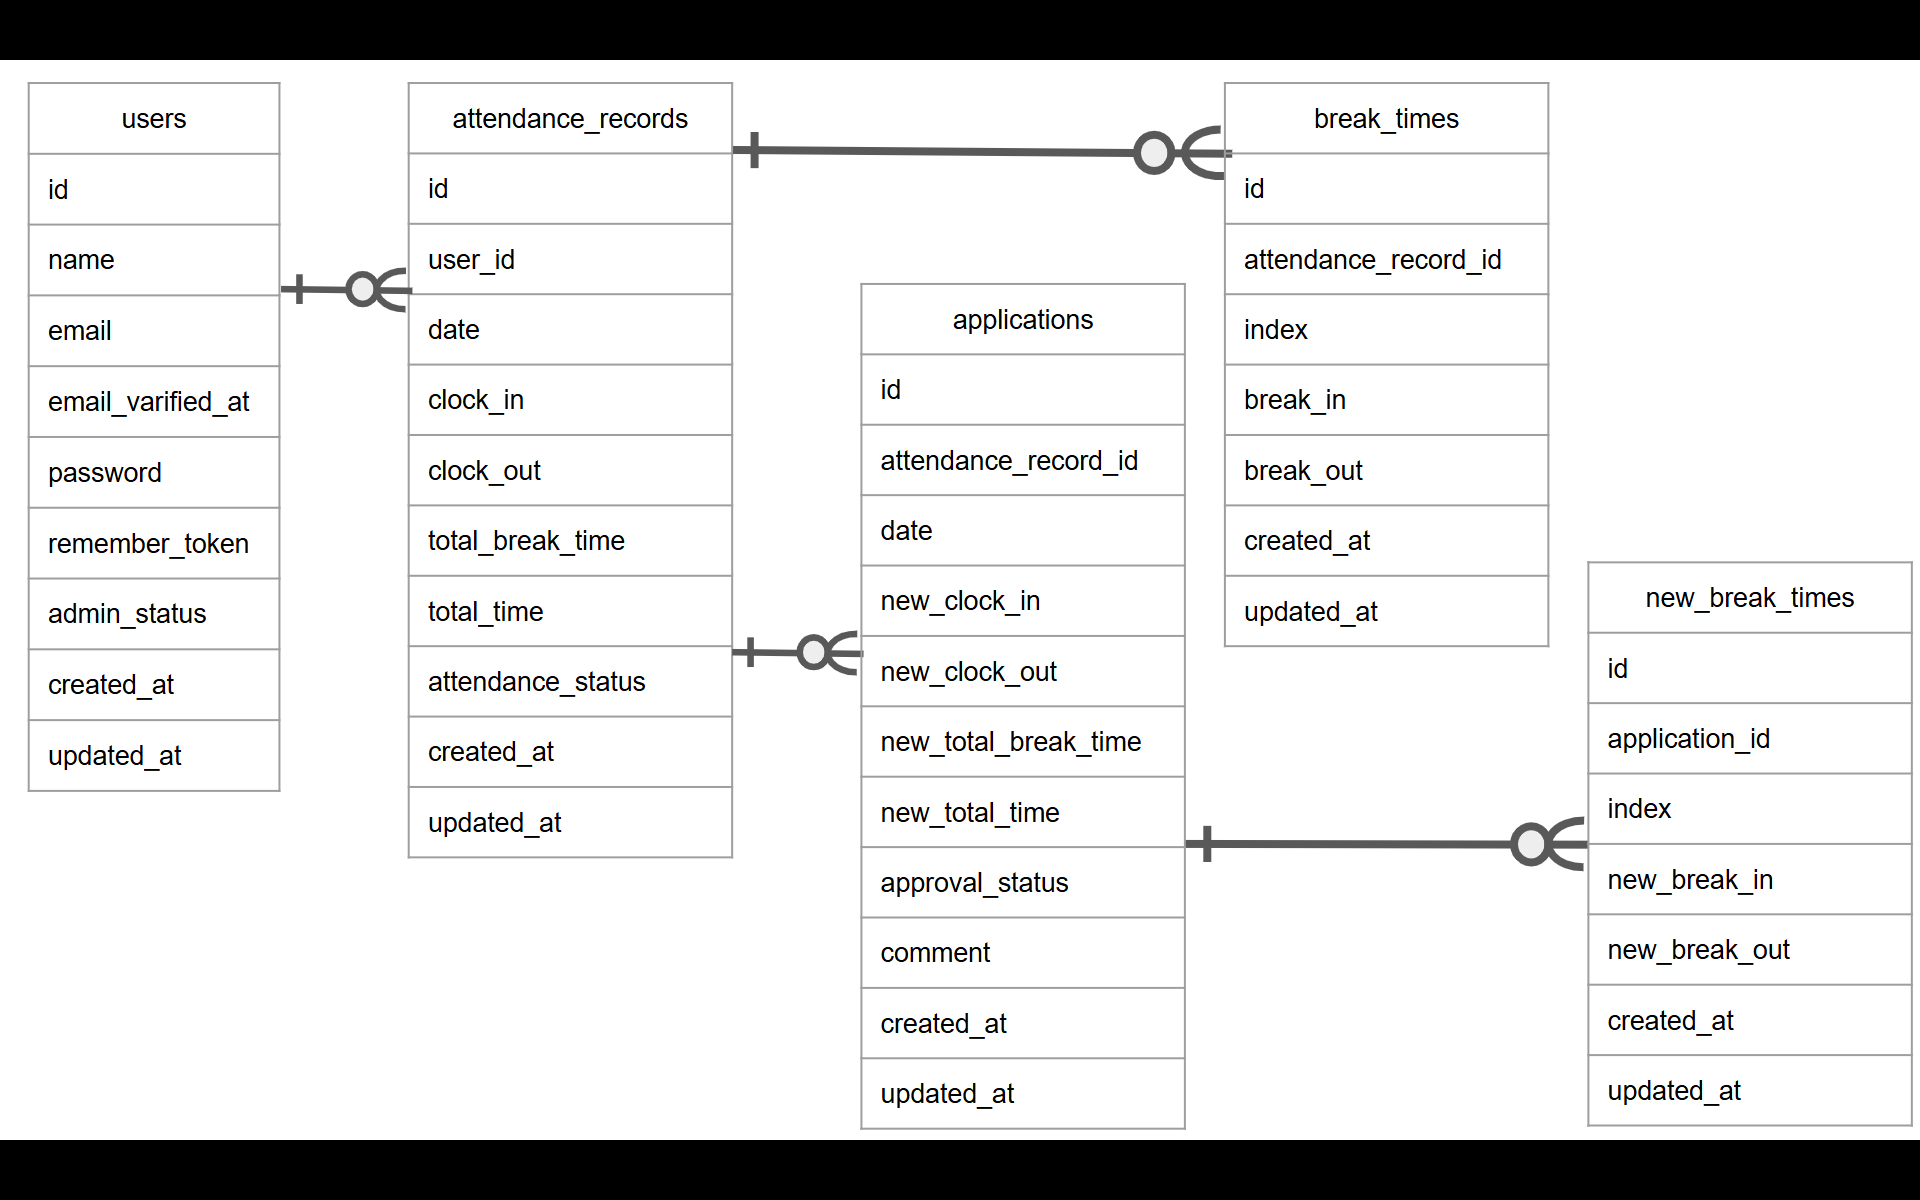
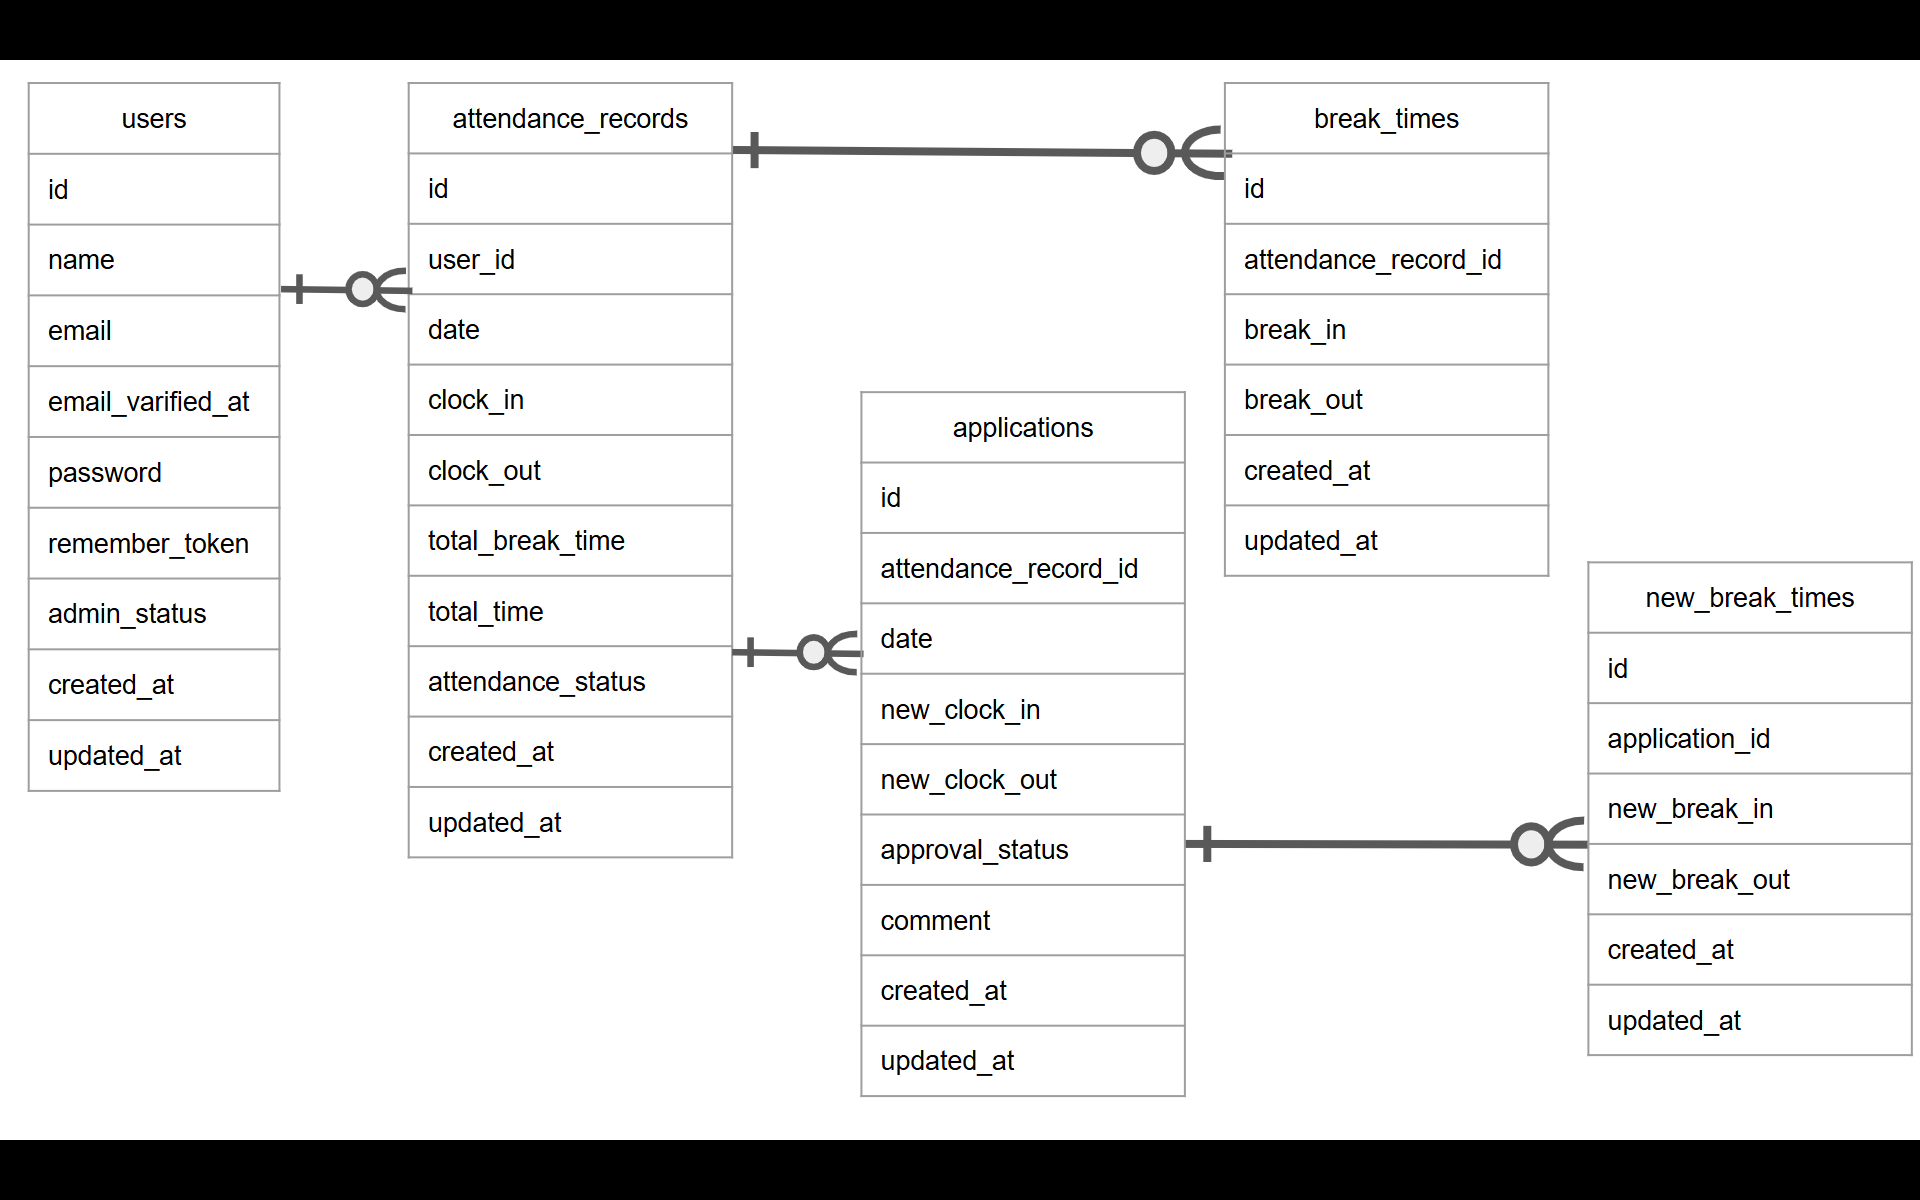
テーブルの修正

diff --git a/app/Models/Application.php b/app/Models/Application.php
@@ -20,8 +20,6 @@ class Application extends Model
         'date',
         'new_clock_in',
         'new_clock_out',
-        'new_total_break_time',
-        'new_total_time',
         'approval_status',
         'comment',
     ];

diff --git a/app/Models/New_break_time.php b/app/Models/New_break_time.php
@@ -16,7 +16,6 @@ class New_break_time extends Model
      */
     protected $fillable = [
         'application_id',
-        'index',
         'new_break_in',
         'new_break_out',
     ];

diff --git a/app/Models/Break_time.php b/app/Models/Break_time.php
@@ -16,7 +16,6 @@ class Break_time extends Model
      */
     protected $fillable = [
         'attendance_record_id',
-        'index',
         'break_in',
         'break_out',
     ];
